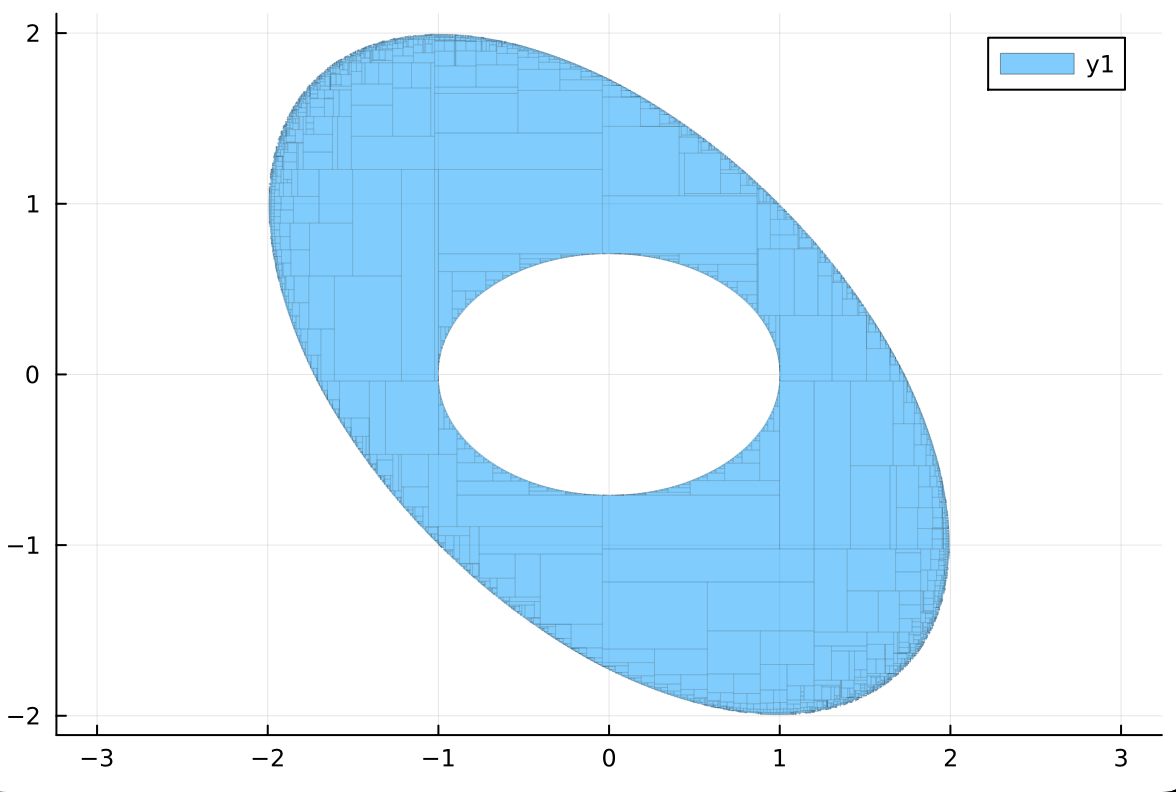
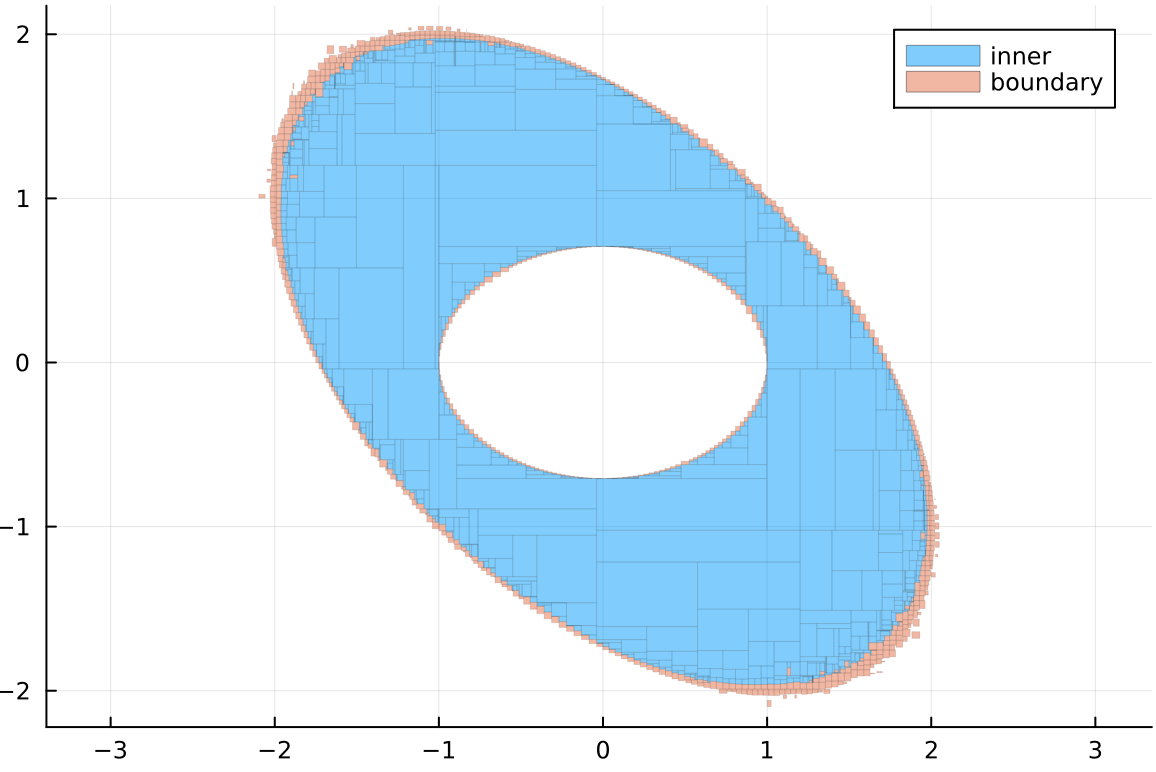
Add boundary to plot

diff --git a/README.md b/README.md
@@ -32,12 +32,20 @@ C2 = constraint(x^2 + y^2 + x * y ≤ 3, vars)
 C = C1 ⊓ C2
 
 X = IntervalBox(-5..5, 2)
-inner, boundary = pave(X, C, 0.01)
+
+tolerance = 0.05
+inner, boundary = pave(X, C, tolerance)
 
 # plot the result:
 using Plots
-plot(collect.(inner), aspectratio = 1, lw = 0)
+
+plot(collect.(inner), aspectratio=1, lw=0, label="inner");
+plot!(collect.(boundary), aspectratio=1, lw=0, label="boundary")
 ```
+
+- The inner, blue, region is guaranteed to lie *inside* the constraint set.
+- The outer, white, region is guaranteed to lie *outside* the constraint set.
+- The in-between, red, region is not known at this tolerance.
 
 ![Inner and outer ellipse](ellipses.png)
 
